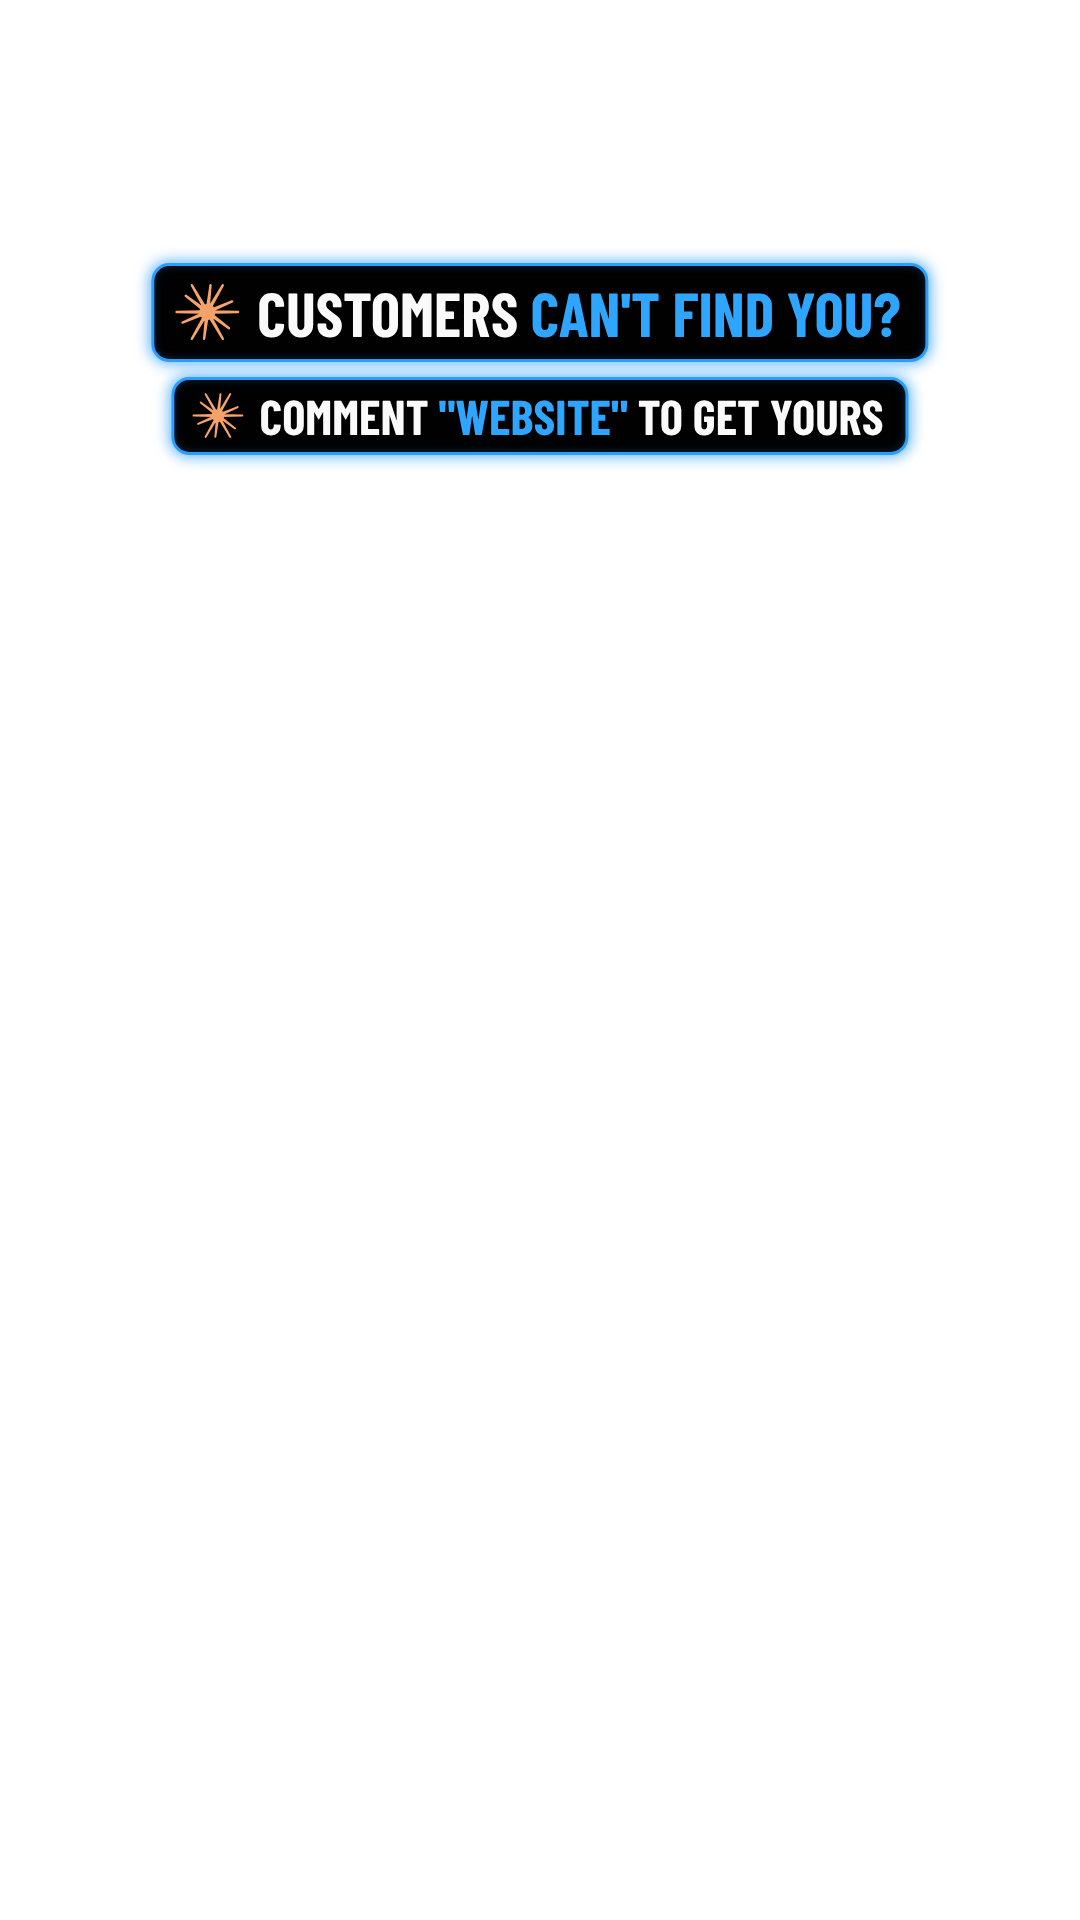
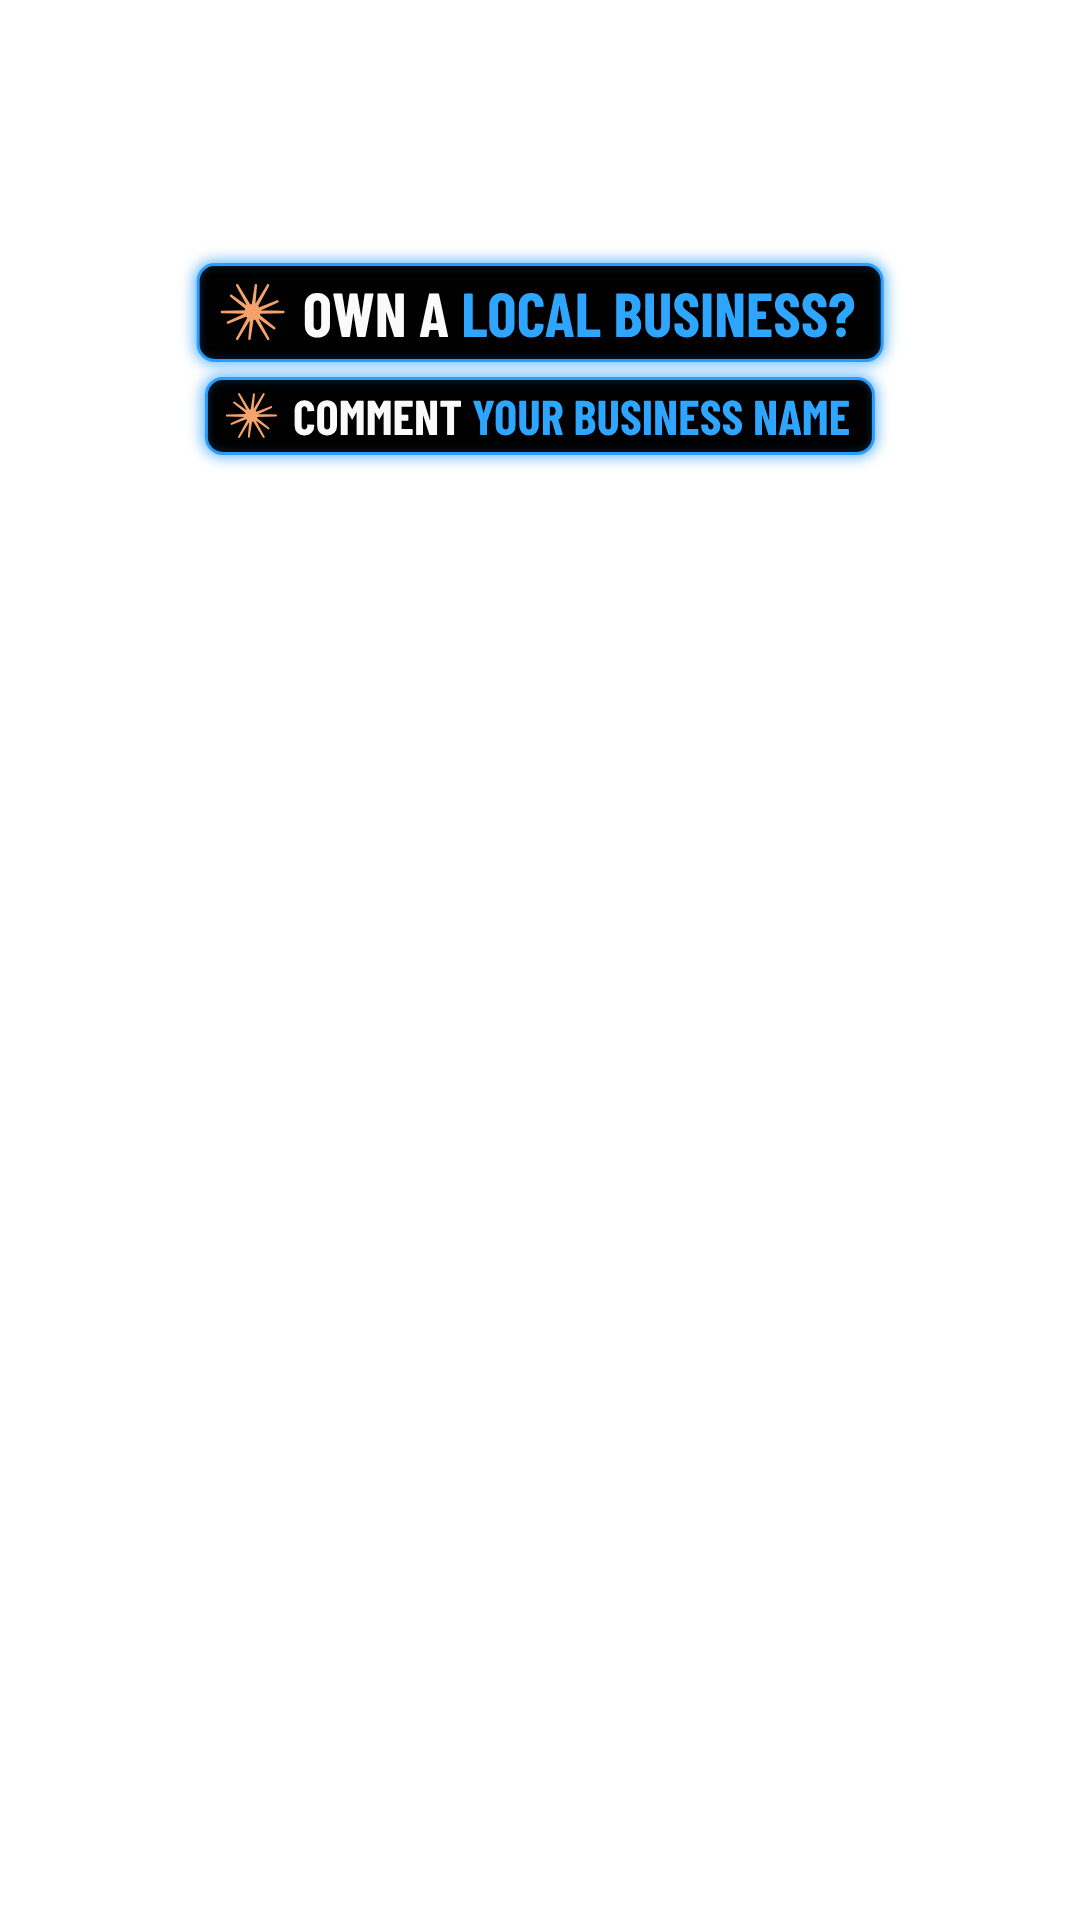
Labels: 'Own a local business?' / 'Comment your business name'
Claude-Session: https://claude.ai/code/session_01MYk2U9H4xZhrhfSxDmNM3V

Changed region(s): [[0.1222, 0.125, 0.8861, 0.25]]

diff --git a/reels/teaser/desk/labels.html b/reels/teaser/desk/labels.html
@@ -11,8 +11,8 @@ html,body{width:1080px;height:1920px;background:transparent;overflow:hidden}
 .acc{color:#2ea6ff}
 svg{flex:none}
 </style></head><body>
-<div class="box b1" id="b1"><svg width="64" height="64" viewBox="-32 -32 64 64"><g id="spark1"></g></svg><span>CUSTOMERS <span class="acc">CAN'T FIND YOU?</span></span></div>
-<div class="box b2" id="b2"><svg width="51" height="51" viewBox="-32 -32 64 64"><g id="spark2"></g></svg><span>COMMENT <span class="acc">"WEBSITE"</span> TO GET YOURS</span></div>
+<div class="box b1" id="b1"><svg width="64" height="64" viewBox="-32 -32 64 64"><g id="spark1"></g></svg><span>OWN A <span class="acc">LOCAL BUSINESS?</span></span></div>
+<div class="box b2" id="b2"><svg width="51" height="51" viewBox="-32 -32 64 64"><g id="spark2"></g></svg><span>COMMENT <span class="acc">YOUR BUSINESS NAME</span></span></div>
 <script>
 // 12-ray spark, rebuilt as a vector
 for (const id of ['spark1','spark2']) { let p=''; for (let i=0;i<12;i++){ const a=i*Math.PI/6+(i%2?0.12:0), r=i%2?27:31, w=0.11;

diff --git a/reels/teaser/README.md b/reels/teaser/README.md
@@ -25,8 +25,8 @@ A keynote-style screen film on a monitor in a desk shot, built in code and rende
 | Invite (2 words) | Just Ask | Get Found |
 | Payoff (3 words) | See The Magic | Get More Bookings |
 | Closing (2 + 1 words) | Pro Workflow / Unleashed | Your Business / Online |
-| Label 1 (hook) | OPUS 5.5 COOKED | CUSTOMERS CAN'T FIND YOU? (accent: reference orange #D57C58) |
-| Label 2 | COMMENT "CLAUDE" FOR FULL GUIDE | COMMENT "WEBSITE" TO GET YOURS |
+| Label 1 (hook) | OPUS 5.5 COOKED | OWN A LOCAL BUSINESS? (accent: CYWEB blue #2EA6FF) |
+| Label 2 (comment ask) | COMMENT "CLAUDE" FOR FULL GUIDE | COMMENT YOUR BUSINESS NAME |
 
 ## Stand-ins still in use
 - **Desk shot (own angle)**: a 3D room built in code (`desk/room.html`): light-oak slatted wall, wall-mounted 27" monitor with light bar, orange ball lamp, slim aluminium keyboard (low-profile keys with legends), white mouse on an aluminium base, grey felt desk mat, ceramic mug, snake plant in a matte pot, walnut desk; soft daylight from the left plus warm practicals. Camera sits front-right and higher than the reference, the monitor is turned toward it (its right edge is the tall one; in the reference it's the left).
@@ -46,8 +46,7 @@ python3 tools/audio.py && ffmpeg -i out/audio.wav -af loudnorm=I=-14:TP=-1 out/a
 ```
 
 ## Caption
-Customers can't find you? Let's fix that.
+Own a local business? Comment your business name and we'll show you what your website could look like.
 CYWEB builds websites for local businesses in Cyprus, with online bookings, WhatsApp, Google Maps, and photos and videos that show you at your best.
-Comment "WEBSITE" and we'll show you how yours could look.
 cywebdev.com
 CYWEB team
